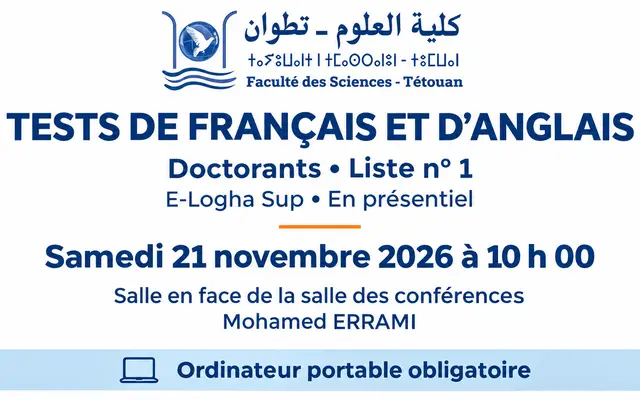
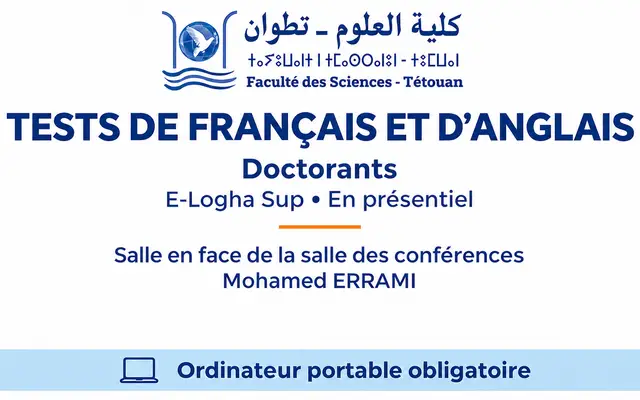
data: scrape 2026-11-23 16:30 UTC

diff --git a/data/posts/98.html b/data/posts/98.html
@@ -1,16 +1,18 @@
-<h3>Les doctorants dont les noms figurent sur la&nbsp;<strong>liste 1 ci-jointe</strong> sont convoqués pour passer les tests de <strong>français et d’anglais</strong> via la plateforme <strong>E-Logha Sup</strong>, <strong>en présentiel</strong>, selon les modalités suivantes :</h3>
+<h3>Les doctorants dont les noms figurent sur les listes<strong> ci-jointes</strong> sont convoqués pour passer les tests de <strong>français et d’anglais</strong> via la plateforme <strong>E-Logha Sup</strong>, <strong>en présentiel</strong>, selon les modalités suivantes :</h3>
 
 <ul>
 <li>
-<h4><em><strong>Date :</strong></em><em>Samedi 21 novembre 2026</em></h4>
+<h3><em><strong>Date : Vendredi 27 novembre 2026<br></strong></em></h3>
 </li>
 <li>
-<h4><em><strong>Heure :</strong></em><em>10h00</em></h4>
+<h3><em><strong>Heure : 14 h 00<br></strong></em></h3>
 </li>
 <li>
-<h4><strong><em>Lieu :</em> &nbsp;</strong>Salle située en face de la salle des conférences Mohamed ERRAMI</h4>
+<h3><em><strong>Lieu : salle située en face de la salle des conférences Mohamed ERRAMI.</strong></em></h3>
 </li>
 </ul>
+
+<h3><a href="https://fs.uae.ac.ma/panel/admin/uploads/1795441274_Liste-2.pdf" class="file">*<strong> <em>Consultez la liste2</em></strong></a></h3>
 
 <h3><a href="https://fs.uae.ac.ma/panel/admin/uploads/1794827136_Liste-1%20Logha.pdf" class="file"><strong> <em>Consultez la liste1&nbsp;</em></strong></a></h3>
 
